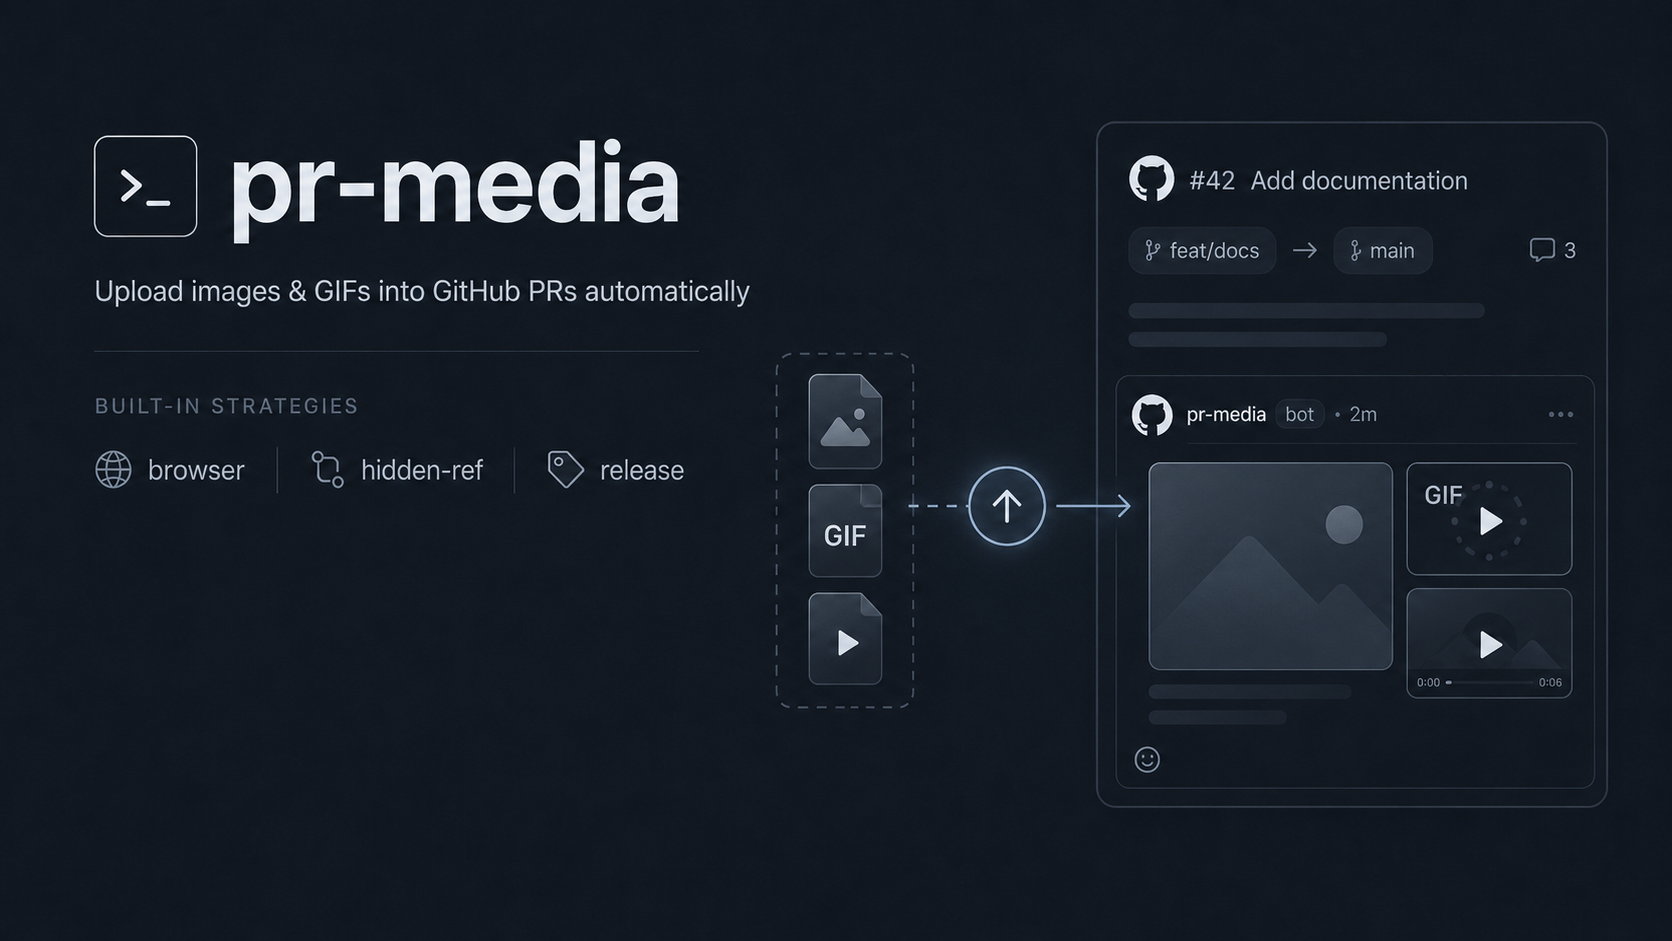
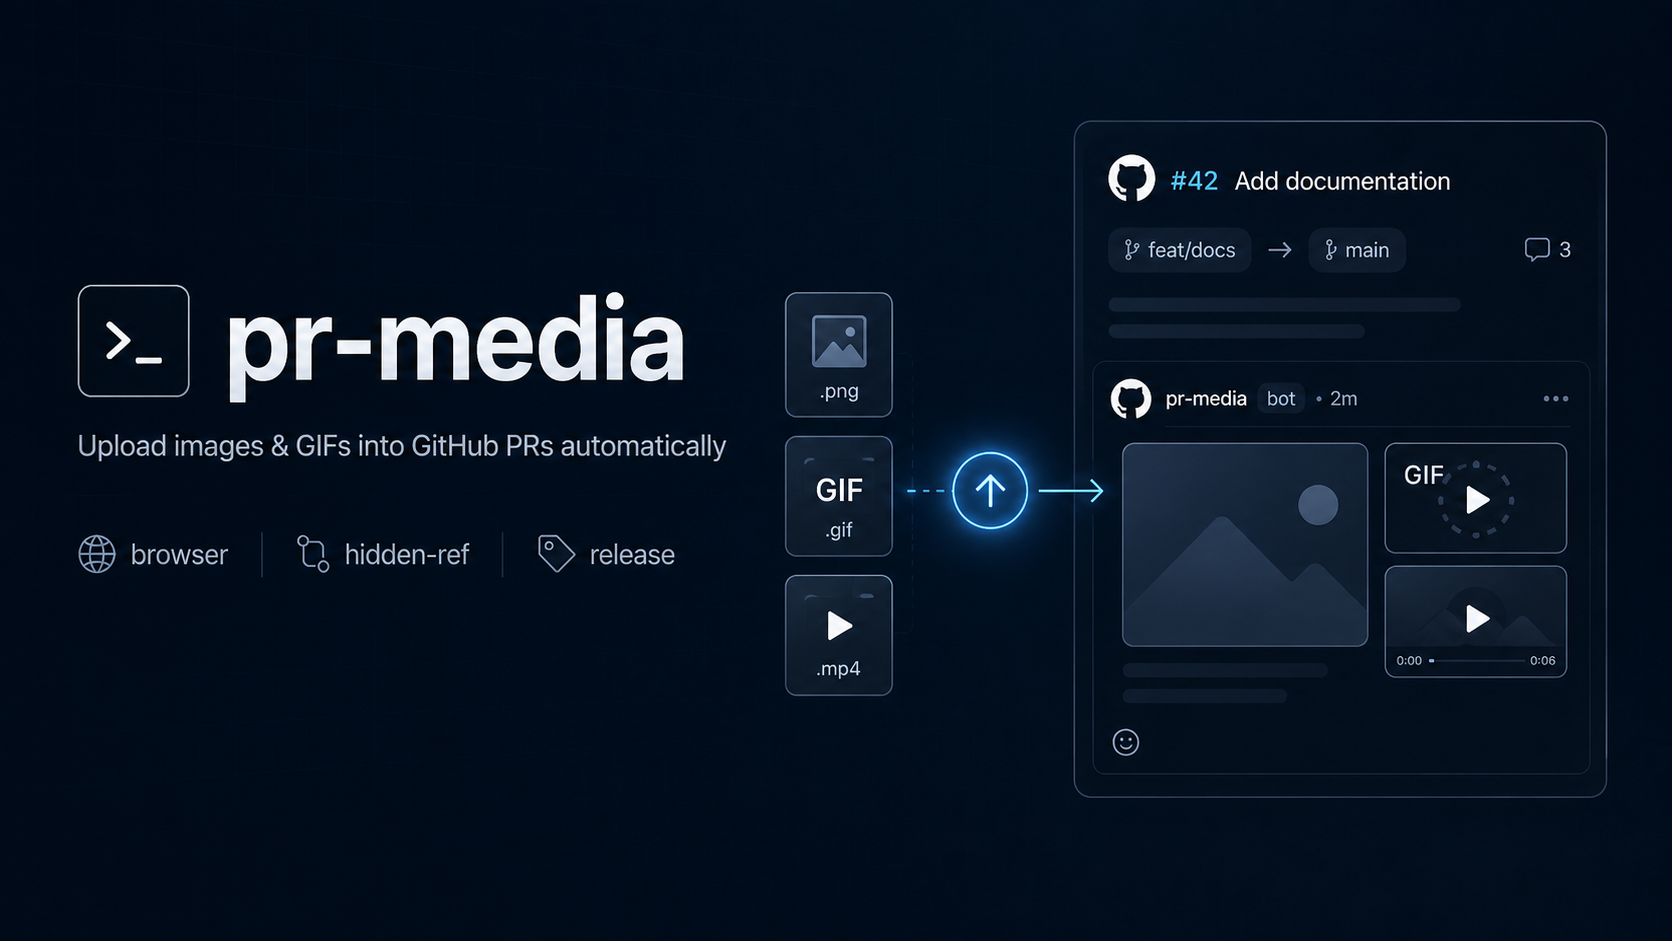
docs: wire in the AI-generated illustrations
New hero art (same dimensions, og:image path unchanged) plus three
lazy-loaded WebP illustrations (26-47 KB each): strategy flow diagram,
agent JSON workflow, cookie-vs-scoped-token security motif. All four
IMAGE_PROMPTS entries now resolved.

diff --git a/docs/index.html b/docs/index.html
@@ -449,6 +449,11 @@
   .foot-bottom a { color: var(--text-dim); }
   .foot-bottom a:hover { color: var(--text); }
 
+  /* ---- Illustrations ---- */
+  .illu { margin: 48px auto 0; }
+  .illu img { display: block; width: 100%; height: auto; border: 1px solid var(--line); border-radius: var(--radius); }
+  .illu figcaption { margin-top: 10px; font-size: 0.8rem; color: var(--text-faint); text-align: center; }
+
   /* ---- Reveal on scroll (gated on .js so content stays visible without JS) ---- */
   .js .reveal { opacity: 0; transform: translateY(12px); transition: opacity 0.4s var(--ease-out), transform 0.4s var(--ease-out); }
   .js .reveal.is-in { opacity: 1; transform: none; }
@@ -659,6 +664,10 @@
           <span style="color:var(--text-faint);margin-left:8px;font-size:0.82rem">outside CI</span>
         </div>
       </div>
+
+      <figure class="illu reveal">
+        <img src="assets/illu-strategies.webp" width="1600" height="667" loading="lazy" decoding="async" alt="Diagram: png, gif and mp4 files flow through one of three paths — browser, hidden-ref or release — and each path ends in a github.com asset URL.">
+      </figure>
     </div>
   </section>
 
@@ -694,6 +703,10 @@
           <p>External commands get their arguments as an argv array, never a shell string. No command injection via file paths, PR URLs, or repo names.</p>
         </div>
       </div>
+
+      <figure class="illu reveal" style="max-width:520px">
+        <img src="assets/illu-security.webp" width="1200" height="1200" loading="lazy" decoding="async" alt="Illustration: a crossed-out session cookie on one side, a short-lived repository-scoped access token on the other, separated by a shield. Caption: we use scoped tokens, we never touch your cookies.">
+      </figure>
     </div>
   </section>
 
@@ -740,6 +753,10 @@
 ]</pre>
         </div>
       </div>
+
+      <figure class="illu reveal" style="max-width:760px">
+        <img src="assets/illu-agents.webp" width="1400" height="1121" loading="lazy" decoding="async" alt="Illustration: an AI agent produces structured JSON with name, url, markdown and strategy fields; the live upload lands as a PR comment while the dry run stays a local preview.">
+      </figure>
     </div>
   </section>
 

diff --git a/docs/IMAGE_PROMPTS.md b/docs/IMAGE_PROMPTS.md
@@ -17,7 +17,7 @@ Shared style suffix (append to any prompt below):
 
 ---
 
-## #1 — Hero illustration / og:image
+## #1 — Hero illustration / og:image — RESOLVED ✅ (assets/hero.png)
 - **Where:** Hero section, right column (`.hero-art`), and the page's
   `og:image` / Twitter card. Currently uses the copied `assets/hero.png`.
 - **Size / aspect:** 1672 × 941 (≈16:9). Export at 2x.
@@ -31,7 +31,7 @@ Shared style suffix (append to any prompt below):
   > "hidden-ref" (linked nodes), "release" (tag). Keep the composition airy and
   > balanced. [+ shared style suffix]
 
-## #2 — Strategies concept art (optional accent)
+## #2 — Strategies concept art (optional accent) — RESOLVED ✅ (assets/illu-strategies.webp)
 - **Where:** Above or beside the "Three strategies" section
   (`#strategies`), as an optional decorative band. Can replace the dashed
   `.chain` visual with a richer illustration.
@@ -45,7 +45,7 @@ Shared style suffix (append to any prompt below):
   > accent on the active route, the others in muted grey-blue. Thin connector
   > lines with small arrowheads. [+ shared style suffix]
 
-## #3 — AI agent workflow
+## #3 — AI agent workflow — RESOLVED ✅ (assets/illu-agents.webp)
 - **Where:** "Built for AI agents" section (`#agents`), left or as a
   background motif behind the JSON code block.
 - **Size / aspect:** 1000 × 800 (≈5:4), navy background.
@@ -57,7 +57,7 @@ Shared style suffix (append to any prompt below):
   > upload path. Clean, diagrammatic, azure accent on the JSON and the final
   > embedded image, everything else muted. [+ shared style suffix]
 
-## #4 — Security / cookie-free motif
+## #4 — Security / cookie-free motif — RESOLVED ✅ (assets/illu-security.webp)
 - **Where:** "Security model" section (`#security`), as a small side or
   background illustration reinforcing "never touches a cookie".
 - **Size / aspect:** 900 × 900 (1:1), navy background.